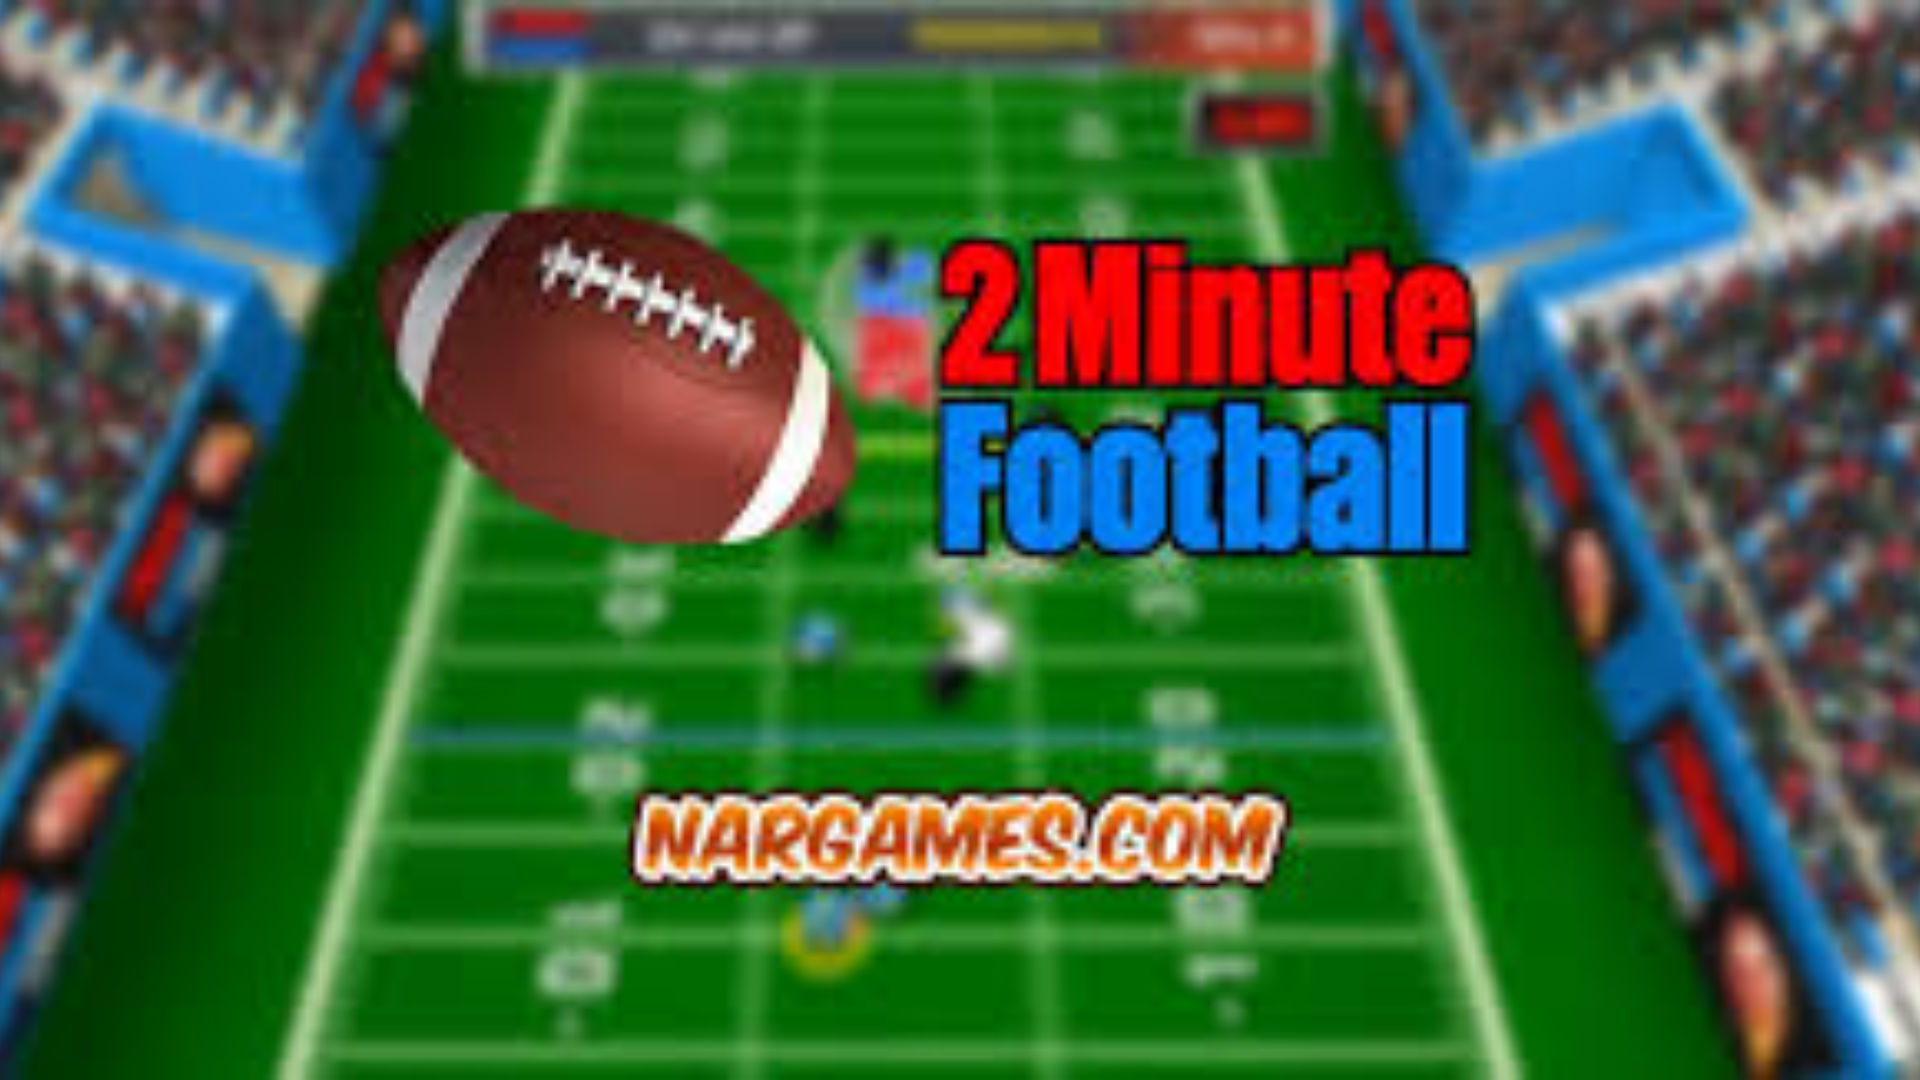
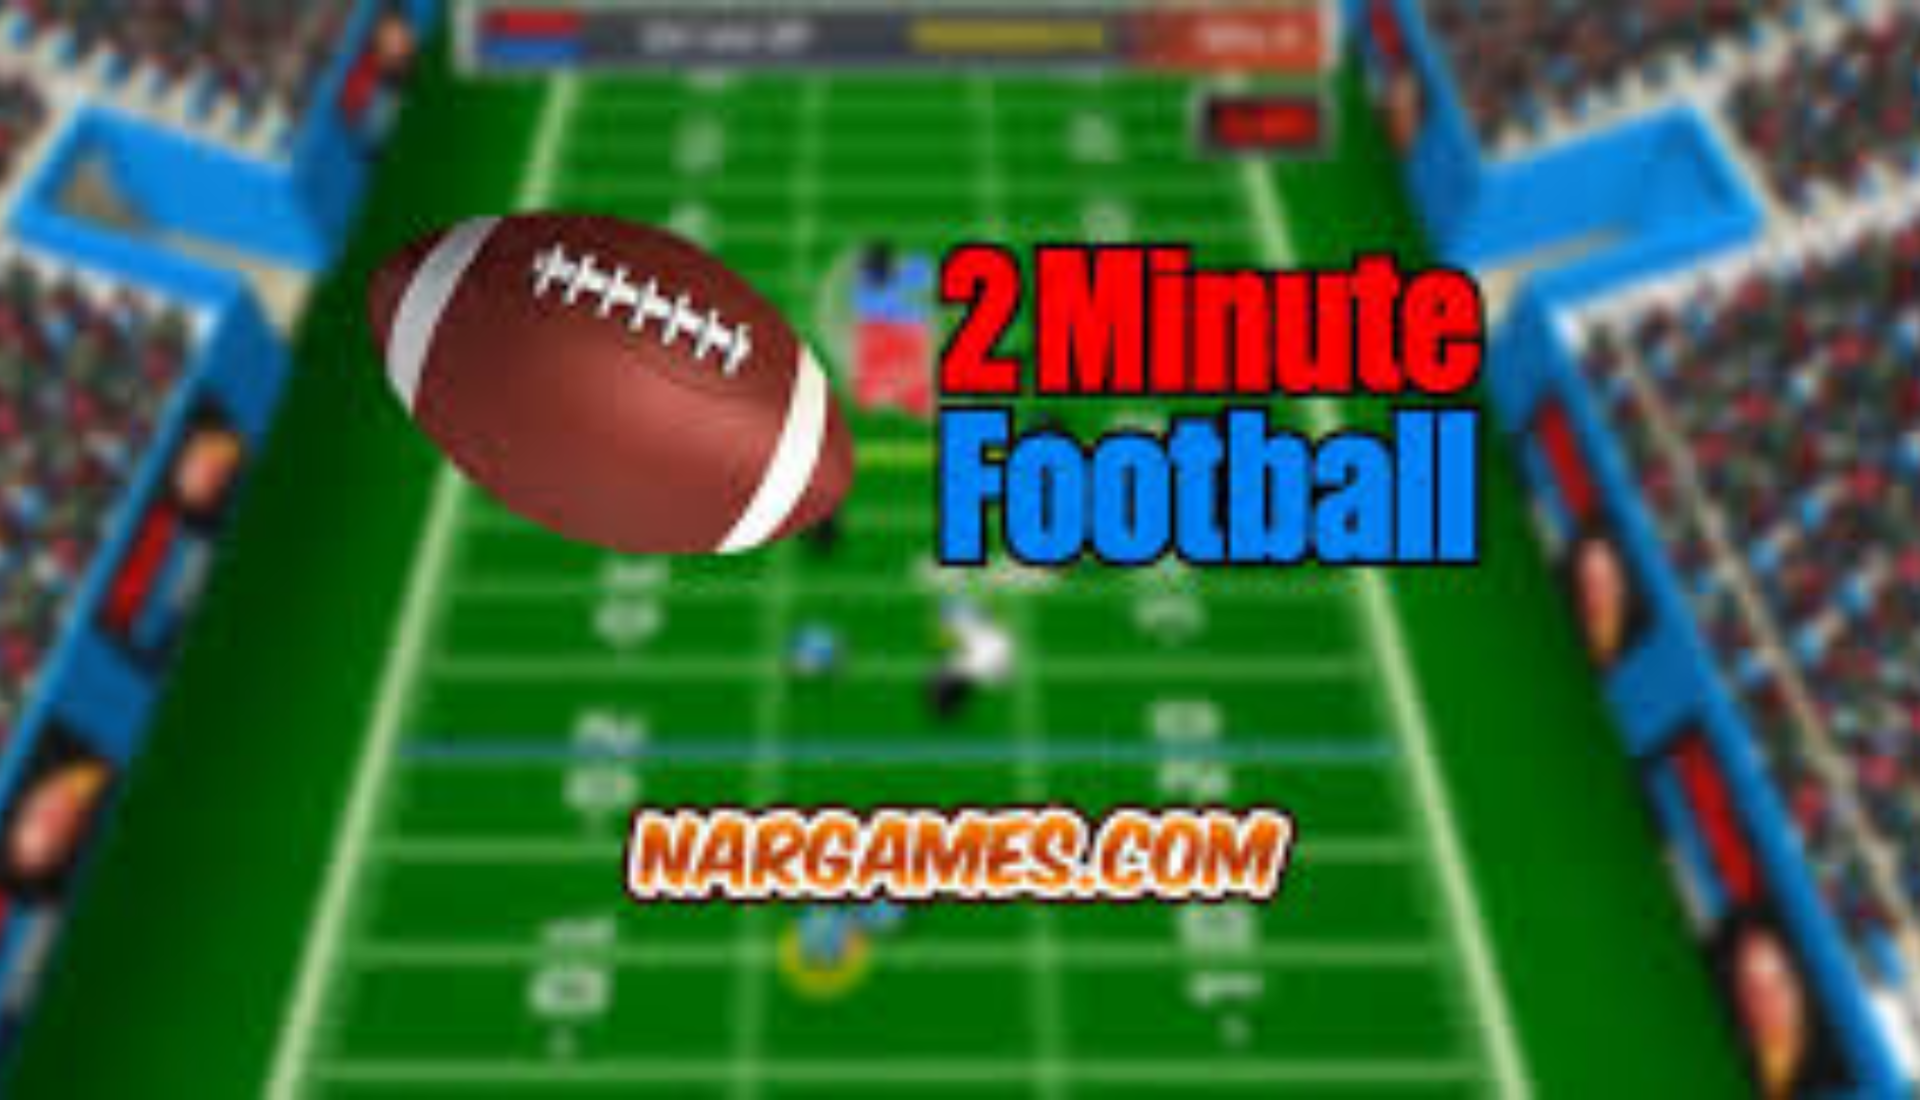
fixed a bunch of shit

diff --git a/index.css b/index.css
@@ -33,12 +33,6 @@ min-height: 100vh;
 padding: 40px 20px;
 background: linear-gradient(135deg, #0e1016 0%, #1a1f2e 50%, #0e1016 100%);
 background-size: 200% 200%;
-opacity: 0;
-animation: pageLoad 1.2s ease-out forwards, bgShift 8s ease-in-out infinite;
-}
-
-.opening-container.no-animation {
-opacity: 1;
 animation: bgShift 8s ease-in-out infinite;
 }
 
@@ -51,22 +45,9 @@ background-position: 100% 50%;
 }
 }
 
-@keyframes pageLoad {
-0% {
-opacity: 0;
-transform: scale(0.95);
-}
-100% {
-opacity: 1;
-transform: scale(1);
-}
-}
-
 .opening-header {
 text-align: center;
 margin-bottom: 60px;
-opacity: 0;
-animation: slideDown 0.8s ease-out 0.5s forwards;
 }
 
 .site-title {
@@ -102,15 +83,11 @@ font-weight: 300;
 font-size: 1.1rem;
 color: #cbd5e0;
 margin-bottom: 50px;
-opacity: 0;
-animation: slideUp 0.8s ease-out 0.8s forwards;
 }
 
 .opening-content {
 width: 100%;
 max-width: 1000px;
-opacity: 0;
-animation: fadeIn 1s ease-out 1s forwards;
 }
 
 .nav-grid {
@@ -128,19 +105,6 @@ padding: 40px 30px;
 text-align: center;
 cursor: pointer;
 transition: all 0.3s ease;
-transform: translateY(50px);
-opacity: 0;
-animation: cardSlideUp 0.6s ease-out forwards;
-}
-
-.nav-card:nth-child(1) {
-animation-delay: 1.2s;
-}
-.nav-card:nth-child(2) {
-animation-delay: 1.4s;
-}
-.nav-card:nth-child(3) {
-animation-delay: 1.6s;
 }
 
 .nav-card:hover {
@@ -150,7 +114,7 @@ box-shadow: 0 20px 40px rgba(124, 92, 255, 0.3), 0 0 40px var(--glow);
 }
 
 .nav-icon {
-font-size: 3.5rem;
+font-size: 3.15rem;
 margin-bottom: 20px;
 display: block;
 transition: transform 0.3s ease;
@@ -189,48 +153,6 @@ display: block;
 
 .main-content.hidden {
 display: none;
-}
-
-@keyframes slideDown {
-from {
-opacity: 0;
-transform: translateY(-30px);
-}
-to {
-opacity: 1;
-transform: translateY(0);
-}
-}
-
-@keyframes slideUp {
-from {
-opacity: 0;
-transform: translateY(30px);
-}
-to {
-opacity: 1;
-transform: translateY(0);
-}
-}
-
-@keyframes fadeIn {
-from {
-opacity: 0;
-}
-to {
-opacity: 1;
-}
-}
-
-@keyframes cardSlideUp {
-from {
-opacity: 0;
-transform: translateY(50px);
-}
-to {
-opacity: 1;
-transform: translateY(0);
-}
 }
 
 .back-btn {
@@ -279,6 +201,11 @@ background:rgba(15,17,25,0.6);
 border-bottom:1px solid rgba(255,255,255,0.05);
 z-index:5;
 will-change:backdrop-filter;
+}
+
+.back-btn{
+position:absolute;
+left:20px;
 }
 
 .topbar button{
@@ -480,13 +407,10 @@ border-radius:var(--radius);
 overflow:hidden;
 background:var(--card);
 cursor:pointer;
-transition:all .35s cubic-bezier(.2,.8,.2,1);
+transition:all .3s ease;
 box-shadow:0 10px 40px rgba(0,0,0,0.3);
 animation:cardAppear 0.6s cubic-bezier(0.34, 1.56, 0.64, 1) backwards;
 animation-delay:calc(var(--card-index, 0) * 0.05s);
-will-change:transform,box-shadow;
-backface-visibility:hidden;
--webkit-backface-visibility:hidden;
 }
 
 @keyframes cardAppear {
@@ -501,18 +425,15 @@ transform: scale(1) translateY(0);
 }
 
 .card:hover{
-transform:translateY(-8px) scale(1.04);
-box-shadow:0 20px 60px rgba(0,0,0,0.5),0 0 20px var(--glow);
+transform:translateY(-4px);
+box-shadow:0 15px 50px rgba(0,0,0,0.4),0 0 20px var(--glow);
 }
 
 .card img{
 width:100%;
 aspect-ratio:16/9;
 object-fit:cover;
-transition:transform .6s;
-}
-.card:hover img{
-transform:scale(1.1);
+display:block;
 }
 
 .overlay{
@@ -521,19 +442,19 @@ bottom:0;
 left:0;
 width:100%;
 height:40%;
-background:linear-gradient(180deg,transparent,rgba(0,0,0,0.85));
+background:linear-gradient(180deg,rgba(0,0,0,0),rgba(0,0,0,0.9));
 opacity:0;
 display:flex;
-/* anchor text to the bottom of the card */
 align-items:flex-end;
 justify-content:center;
-padding:12px 0;
-transition:.3s;
+padding:15px;
+transition:opacity .3s ease;
 color:white;
-font-weight:bold;
+font-weight:600;
 text-align:center;
-font-size:20px;
+font-size:16px;
 box-sizing:border-box;
+pointer-events:none;
 }
 
 .card:hover .overlay{

diff --git a/index.js b/index.js
@@ -38,14 +38,13 @@ mainContent=document.getElementById("mainContent")
 siteSubtitle=document.querySelector(".site-subtitle")
 updateMuteButton()
 setRandomSplashText()
-    frame?.addEventListener("load",()=>applyMuteStateToWindow(window))
+frame?.addEventListener("load",()=>applyMuteStateToWindow(window))
 }
 
 // Navigation functions
 function goToHome(){
 isReturningFromBack=true
 openingPage.style.display="flex"
-openingPage.classList.add("no-animation")
 mainContent.classList.add("hidden")
 player.style.display="none"
 }
@@ -53,7 +52,6 @@ player.style.display="none"
 function goToTab(tabName){
 isReturningFromBack=false
 openingPage.style.display="none"
-openingPage.classList.remove("no-animation")
 mainContent.classList.remove("hidden")
 switchTab(tabName)
 }
@@ -81,6 +79,7 @@ const games=[
 {title:"Bitlife",img:"images/Bitlife.png",url:"games/Bitlife/index.html",cat:"all"},
 {title:"BitPlanes",img:"images/BitPlanes.png",url:"games/BitPlanes/index.html",cat:"all"},
 {title:"Candy Crush",img:"images/Candy Crush.png",url:"games/Candy Crush/index.html",cat:"all"},
+{title:"Celeste",img:"images/Candy Crush.png",url:"games/Celeste/index.html",cat:"all"},
 {title:"Cluster Rush",img:"images/Cluster Rush.png",url:"games/Cluster Rush/index.html",cat:"all"},
 {title:"Core Ball",img:"images/Core Ball.png",url:"games/Core Ball/index.html",cat:"all"},
 {title:"CS GO Clicker",img:"images/CS GO clicker.png",url:"games/CS GO clicker/index.html",cat:"all"},